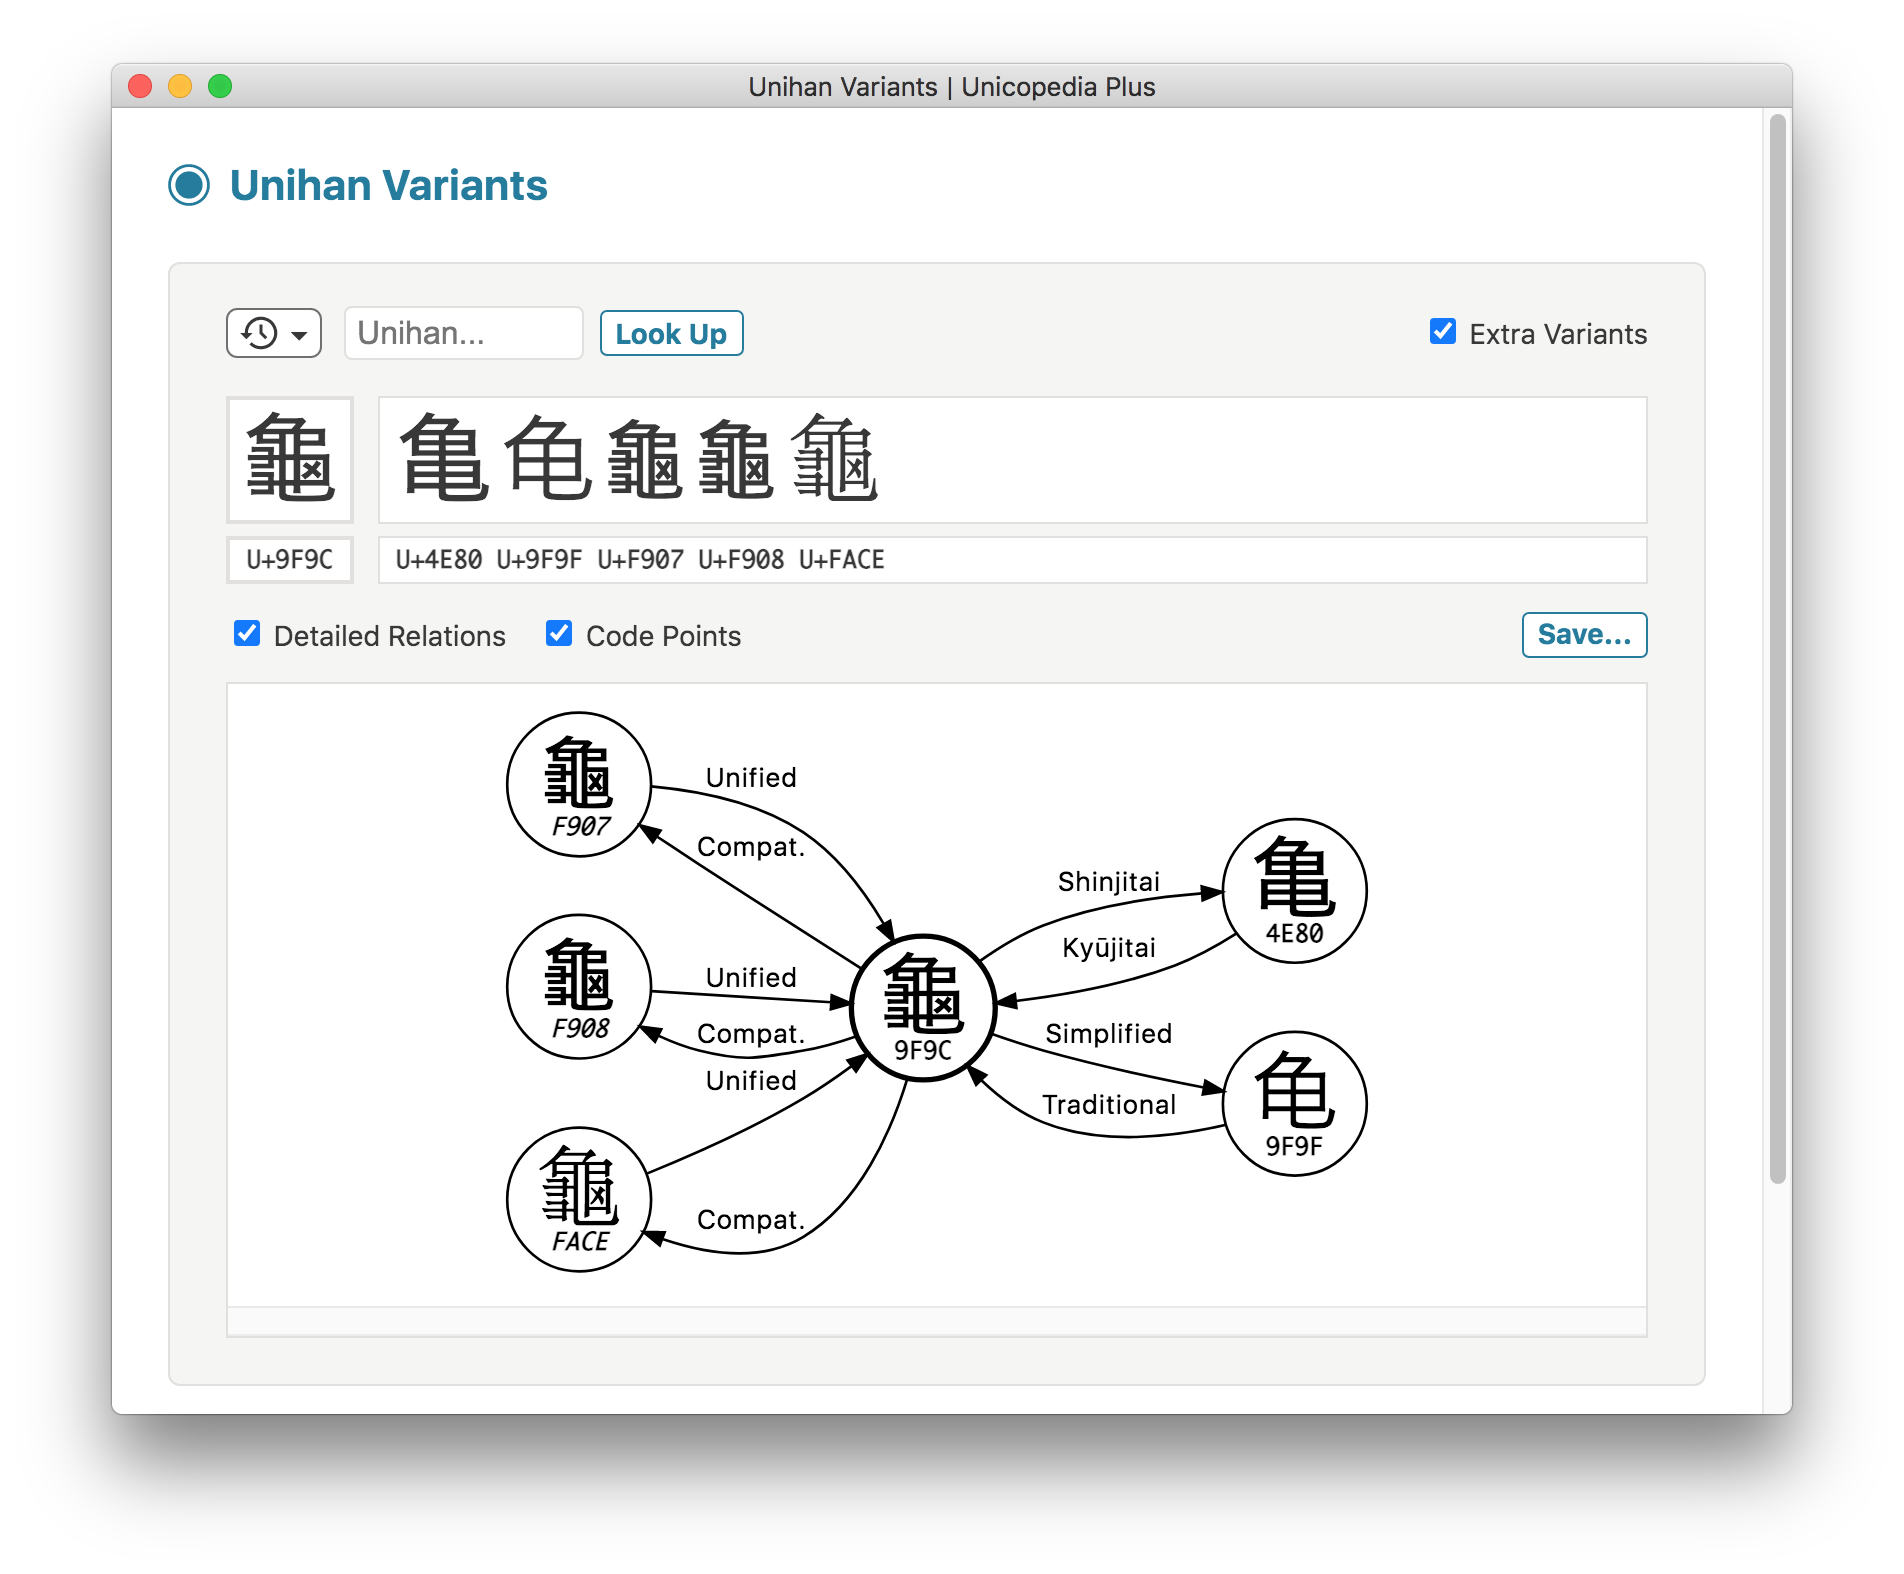
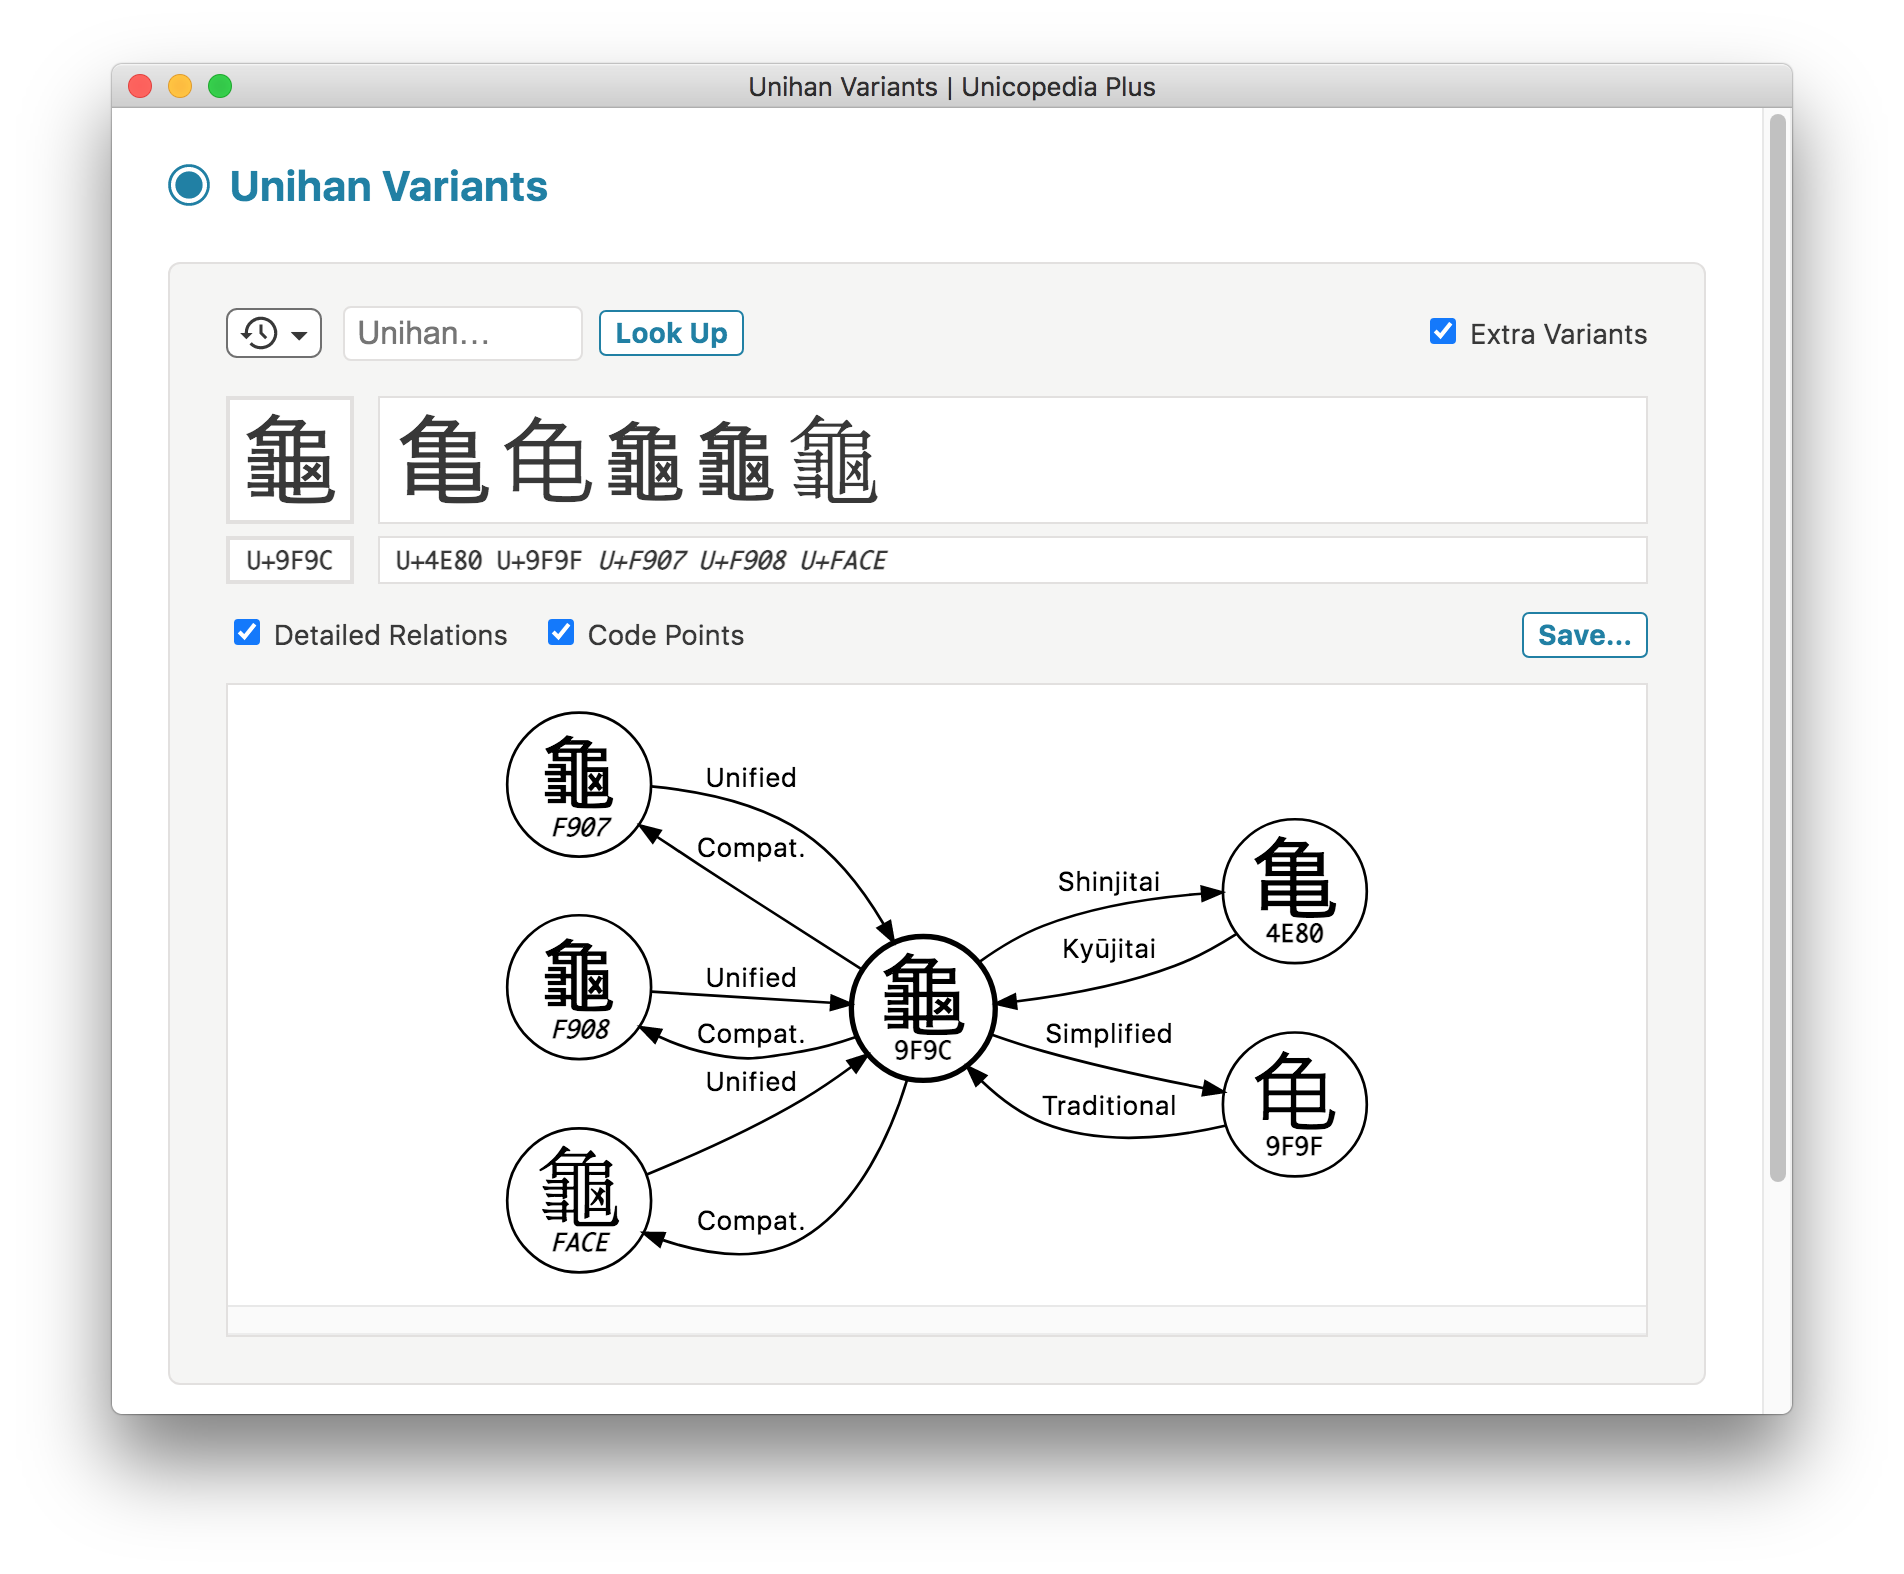
Updated app to v12.5.0

diff --git a/renderer/units/Unihan Variants/import.js b/renderer/units/Unihan Variants/import.js
@@ -412,7 +412,14 @@ module.exports.start = function (context)
             symbol.title = unihan.getTooltip (character);
             symbol.textContent = character;
             linearCharacter.appendChild (symbol);
-            linearCodePoint.textContent = unicode.charactersToCodePoints (character);
+            let codePoint = document.createElement ('span');
+            codePoint.className = 'code-point';
+            if (regexp.isCompatibility (character))
+            {
+                codePoint.classList.add ('compatibility');
+            }
+            codePoint.textContent = unicode.characterToCodePoint (character);
+            linearCodePoint.appendChild (codePoint);
             let relations = getVariantRelations (character);
             // console.log (relations);
             let variants = [ ];
@@ -431,6 +438,7 @@ module.exports.start = function (context)
             // console.log (variants);
             if (variants.length > 0)
             {
+                let isFirst = true;
                 for (let variant of variants)
                 {
                     let symbol = document.createElement ('span');
@@ -438,8 +446,20 @@ module.exports.start = function (context)
                     symbol.title = unihan.getTooltip (variant);
                     symbol.textContent = variant;
                     linearVariants.appendChild (symbol);
+                    if (!isFirst)
+                    {
+                        linearCodePoints.appendChild (document.createTextNode (" "));
+                    }
+                    isFirst = false;
+                    let codePoint = document.createElement ('span');
+                    codePoint.className = 'code-point';
+                    if (regexp.isCompatibility (variant))
+                    {
+                        codePoint.classList.add ('compatibility');
+                    }
+                    codePoint.textContent = unicode.characterToCodePoint (variant);
+                    linearCodePoints.appendChild (codePoint);
                 }
-                linearCodePoints.textContent = unicode.charactersToCodePoints (variants.join (""));
             }
             try
             {

diff --git a/license-index.html b/license-index.html
@@ -27,7 +27,7 @@
         <div class="contents">
             <p class="header">MIT License</p>
             <p>
-                Copyright (c) 2018-2022 Michel Mariani
+                Copyright (c) 2018-2023 Michel Mariani
             </p>
             <p>
                 Permission is hereby granted, free of charge, to any person obtaining a copy

diff --git a/main.js b/main.js
@@ -2,6 +2,8 @@
 const electron = require ('electron');
 const { app, BrowserWindow, dialog, globalShortcut, ipcMain, Menu, shell } = electron;
 //
+electron.ipcMain.setMaxListeners (20);
+//
 const remoteMain = require ('@electron/remote/main');
 //
 remoteMain.initialize ();

diff --git a/renderer/units/Unihan Variants/import.css b/renderer/units/Unihan Variants/import.css
@@ -158,6 +158,12 @@
     height: 2em;
 }
 
+#unihan-variants-unit .linear-code-point .code-point.compatibility,
+#unihan-variants-unit .linear-row.code-points .code-point.compatibility
+{
+    font-style: italic;
+}
+
 #unihan-variants-unit .options
 {
     display: flex;

diff --git a/CHANGES.md b/CHANGES.md
@@ -2,6 +2,11 @@
 
 This project adheres to [Semantic Versioning](https://semver.org/).
 
+## 12.5.0
+
+- Added italic style to code points of compatibility characters in the linear view of the **Unihan Variants** utility.
+- Updated copyright years.
+
 ## 12.4.1
 
 - Updated `@electron/remote` module to version `2.0.9`.

diff --git a/README.md b/README.md
@@ -517,4 +517,4 @@ npm run build-darwin
 
 The MIT License (MIT).
 
-Copyright © 2018-2022 Michel Mariani.
+Copyright © 2018-2023 Michel Mariani.
